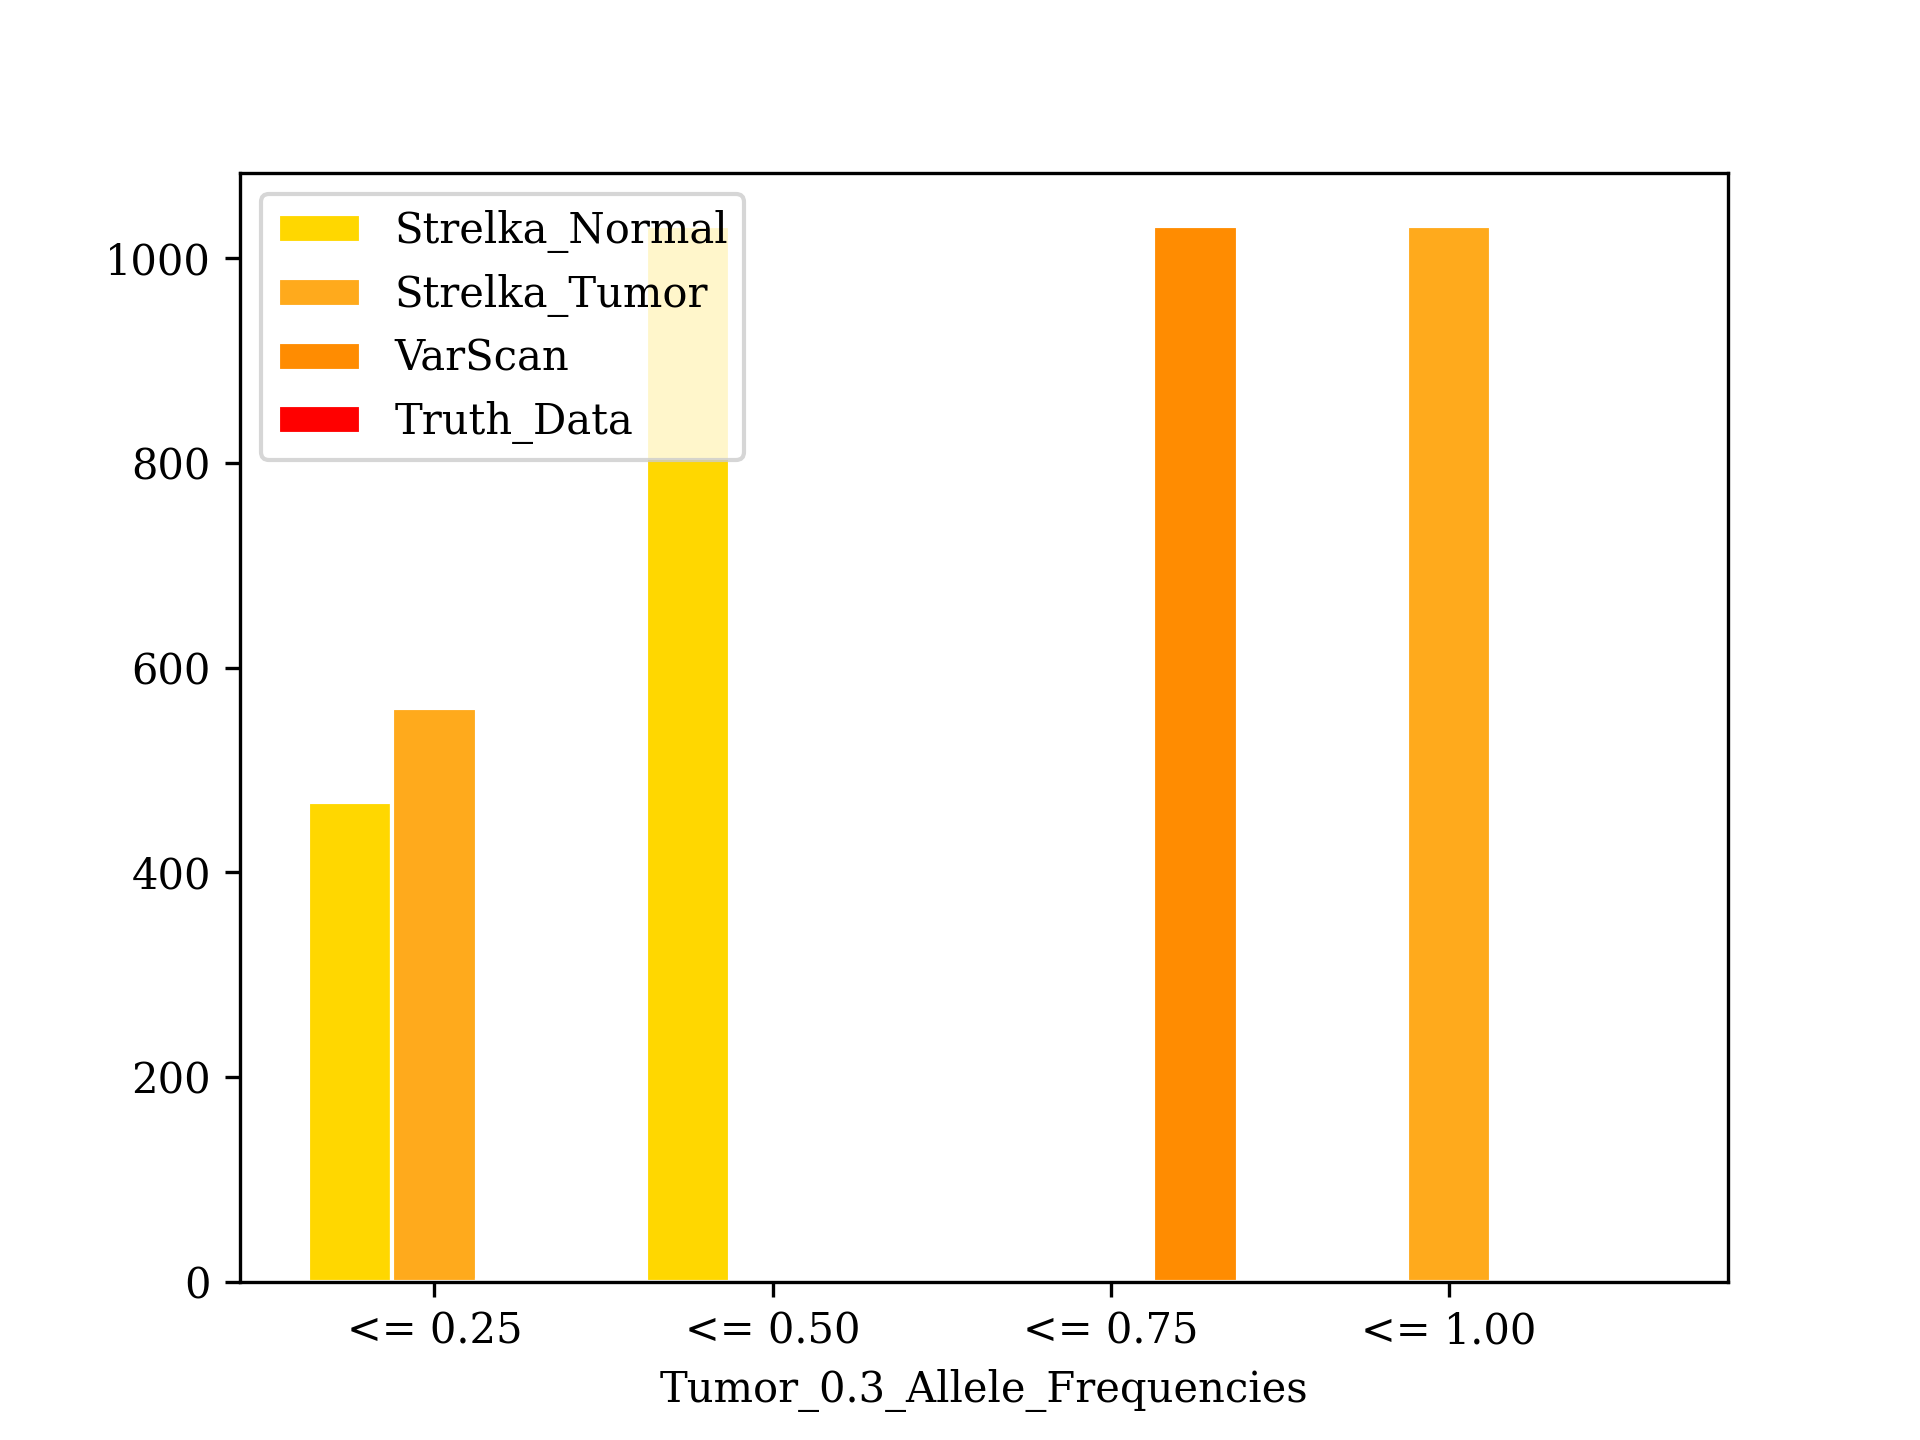
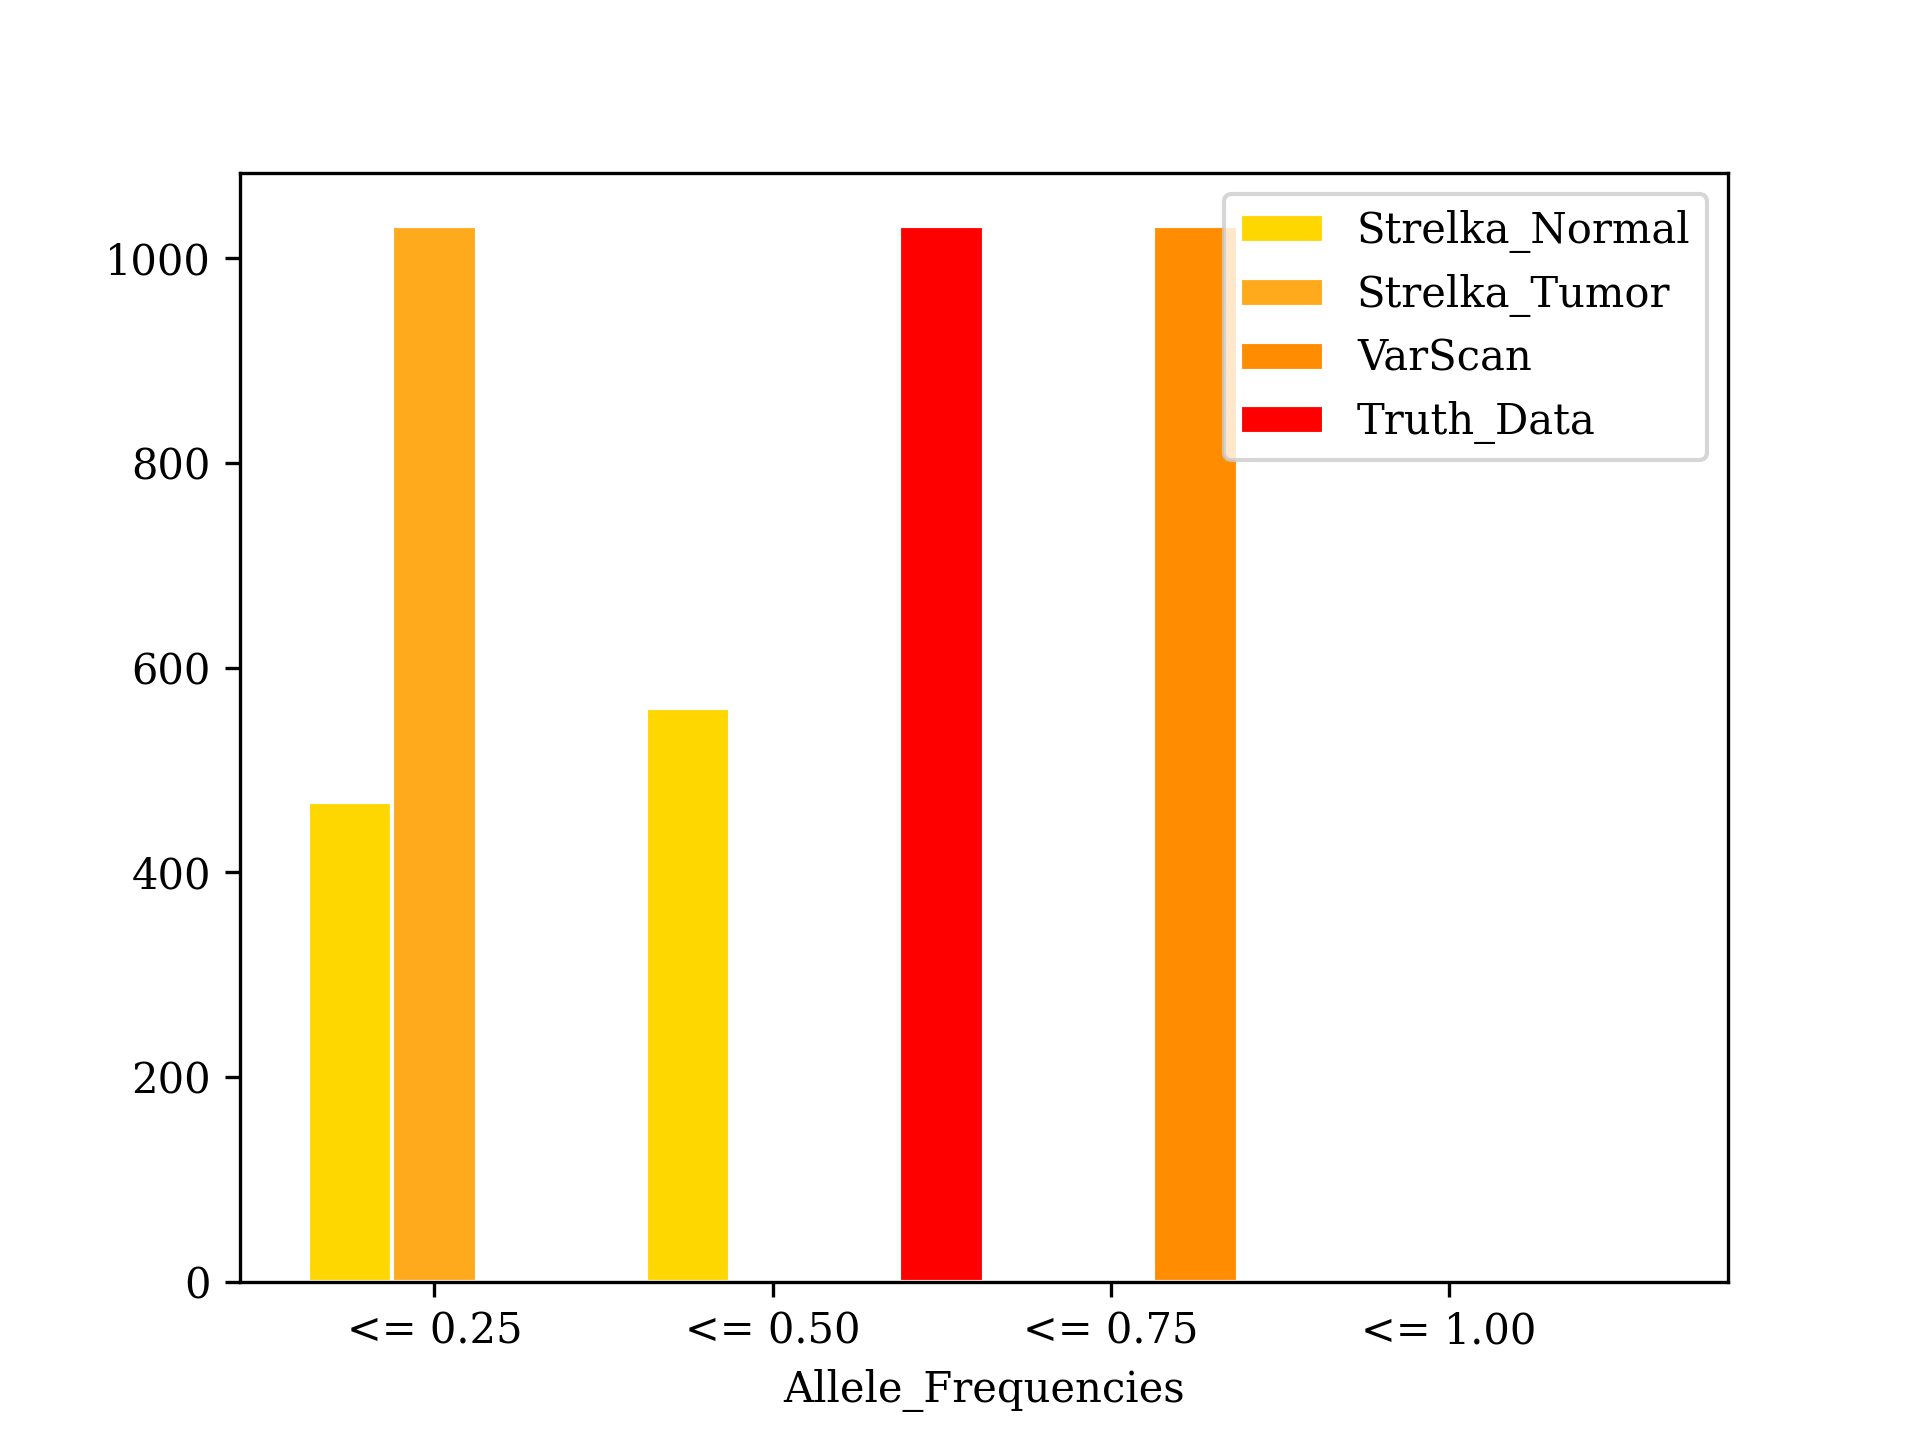
Adding modified csv and code files.

diff --git a/Allele_Frequency/Comparisons/Tumor_Purity_0.3/Background_Files/Code.py b/Allele_Frequency/Comparisons/Tumor_Purity_0.3/Background_Files/Code.py
@@ -86,11 +86,16 @@ dff8.to_csv('Tumor_Purity_0.3_AF_Counts.csv', sep=',', index = None)
 # set width of bar
 width = 0.25
 
+# Dropping the unneeded column.
+dff9 = dff8.drop(['Type'], axis=1)
+print(dff9)
+
 # Columns from the file
-a1 = First_Column
-a2 = Second_Column
-a3 = Third_Column
-a4 = Fourth_Column
+a1, a2, a3, a4 = dff9.values.tolist()
+print(a1)
+print(a2)
+print(a3)
+print(a4)
 
 # Set position of bar on X axis
 r1 = np.arange(len(a1))
@@ -105,7 +110,7 @@ plt.bar(r3, a3, color='#FF8C01', width=width, edgecolor='white', label='VarScan'
 plt.bar(r4, a4, color='#FF0000', width=width, edgecolor='white', label='Truth_Data')
 
 # Add xticks on the middle of the group bars
-plt.xlabel('Tumor_0.3_Allele_Frequencies')
+plt.xlabel('Allele_Frequencies')
 plt.xticks([r + width for r in range(len(a1))], ['<= 0.25', '<= 0.50', '<= 0.75', '<= 1.00'])
 
 # Create legend & Show graphic
